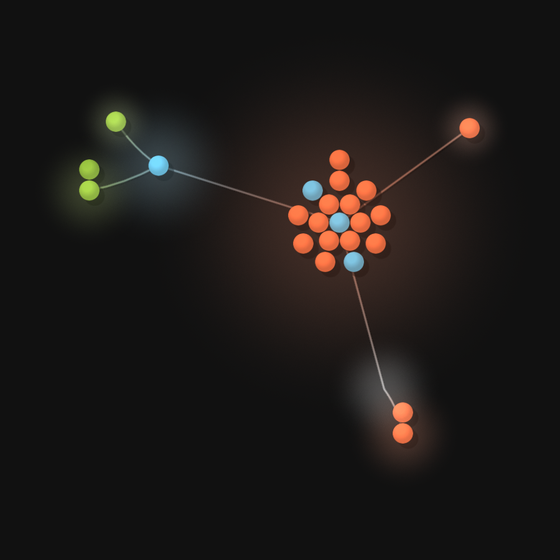
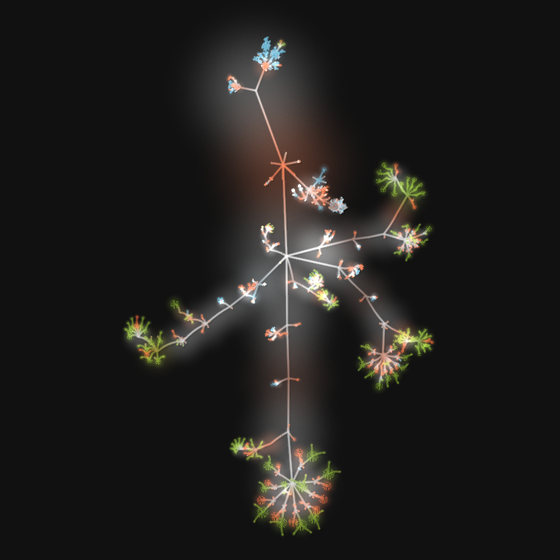
Re-rendered ONLYOFFICE fireworks tile, content v2.18 (v2.4.2) (#27)

Changed region(s): [[0.2125, 0.0607, 0.7893, 0.9714], [0.0911, 0.1821, 0.3946, 0.3946], [0.7893, 0.1821, 0.8804, 0.2732]]

diff --git a/build.py b/build.py
@@ -16,7 +16,7 @@ REPO = "https://github.com/pihme/my-data-my-tools-my-rules"
 SITE = "https://pihme.github.io/my-data-my-tools-my-rules"
 OG_IMAGE = SITE + "/assets/social-preview.png"
 OG_IMAGE_ALT = "My Data, My Tools, My Rules — a directory of open-source projects for digital self-determination"
-VERSION = "2.4.1"  # bump per release; busts browser caches for theme/style.css and theme/site.js
+VERSION = "2.4.2"  # bump per release; busts browser caches for theme/style.css and theme/site.js
 SKIP = {"README.md", "TEMPLATE.md"}
 COLORS = ["#ff5c39", "#ffc531", "#2ec4a6", "#6c7bff", "#e95fb3", "#7bd14b"]
 E = html.escape

diff --git a/assets/ASSETS.md b/assets/ASSETS.md
@@ -70,7 +70,7 @@ Our own renders (variant B1) shown as the optional tile on dossier pages via `fi
 | fireworks/cf-navidrome-b1.png | Navidrome | https://github.com/navidrome/navidrome | 2026-11-05 | assets/icons/navidrome.png (MDMTMR); logo blues merged to one + cream f6f3ec | Own Gource render of the public commit history (file tree only; user, file and directory names hidden); site license CC BY-ND 4.0; only colour values taken from the logo, no logo artwork reproduced | ok |
 | fireworks/cf-nextcloud-b1.png | Nextcloud | https://github.com/nextcloud/server | 2026-11-05 | assets/icons/nextcloud.svg (MDMTMR); single-colour logo + cream f6f3ec | Own Gource render of the public commit history (file tree only; user, file and directory names hidden); site license CC BY-ND 4.0; only colour values taken from the logo, no logo artwork reproduced | ok |
 | fireworks/cf-obtainium-b1.png | Obtainium | https://github.com/ImranR98/Obtainium | 2026-11-05 | assets/icons/obtainium.png (MDMTMR); single-colour logo + cream f6f3ec | Own Gource render of the public commit history (file tree only; user, file and directory names hidden); site license CC BY-ND 4.0; only colour values taken from the logo, no logo artwork reproduced | ok |
-| fireworks/cf-onlyoffice-b1.png | ONLYOFFICE | https://github.com/ONLYOFFICE/DocumentServer | 2026-11-05 | assets/icons/onlyoffice.svg (MDMTMR); logo colours | Own Gource render of the public commit history (file tree only; user, file and directory names hidden); site license CC BY-ND 4.0; only colour values taken from the logo, no logo artwork reproduced | ok |
+| fireworks/cf-onlyoffice-b1.png | ONLYOFFICE | https://github.com/ONLYOFFICE/sdkjs, https://github.com/ONLYOFFICE/web-apps, https://github.com/ONLYOFFICE/server (combined history; ONLYOFFICE/DocumentServer is a submodule shell) | 2026-11-05 | assets/icons/onlyoffice.svg (MDMTMR); logo colours | Own Gource render of the public commit history (file tree only; user, file and directory names hidden); site license CC BY-ND 4.0; only colour values taken from the logo, no logo artwork reproduced | ok |
 | fireworks/cf-opencode-b1.png | OpenCode | https://github.com/anomalyco/opencode | 2026-11-05 | assets/icons/opencode.svg (MDMTMR); logo colours | Own Gource render of the public commit history (file tree only; user, file and directory names hidden); site license CC BY-ND 4.0; only colour values taken from the logo, no logo artwork reproduced | ok |
 | fireworks/cf-openhab-b1.png | openHAB | https://github.com/openhab/openhab-core | 2026-11-05 | assets/icons/openhab.svg (MDMTMR); logo colours | Own Gource render of the public commit history (file tree only; user, file and directory names hidden); site license CC BY-ND 4.0; only colour values taken from the logo, no logo artwork reproduced | ok |
 | fireworks/cf-organic-maps-b1.png | Organic Maps | https://github.com/organicmaps/organicmaps | 2026-11-05 | assets/icons/organic-maps.svg (MDMTMR); single-colour logo + cream f6f3ec | Own Gource render of the public commit history (file tree only; user, file and directory names hidden); site license CC BY-ND 4.0; only colour values taken from the logo, no logo artwork reproduced | ok |

diff --git a/CHANGELOG.md b/CHANGELOG.md
@@ -1,5 +1,9 @@
 # Changelog
 
+## 2.4.2
+
+- Content v2.18: ONLYOFFICE Code Fireworks tile re-rendered from the combined history of `sdkjs`, `web-apps` and `server` (DocumentServer is a submodule shell); ASSETS.md source updated.
+
 ## 2.4.1
 
 - Category headers: number, title and entry count share one baseline; the count is right-aligned on the title row.
